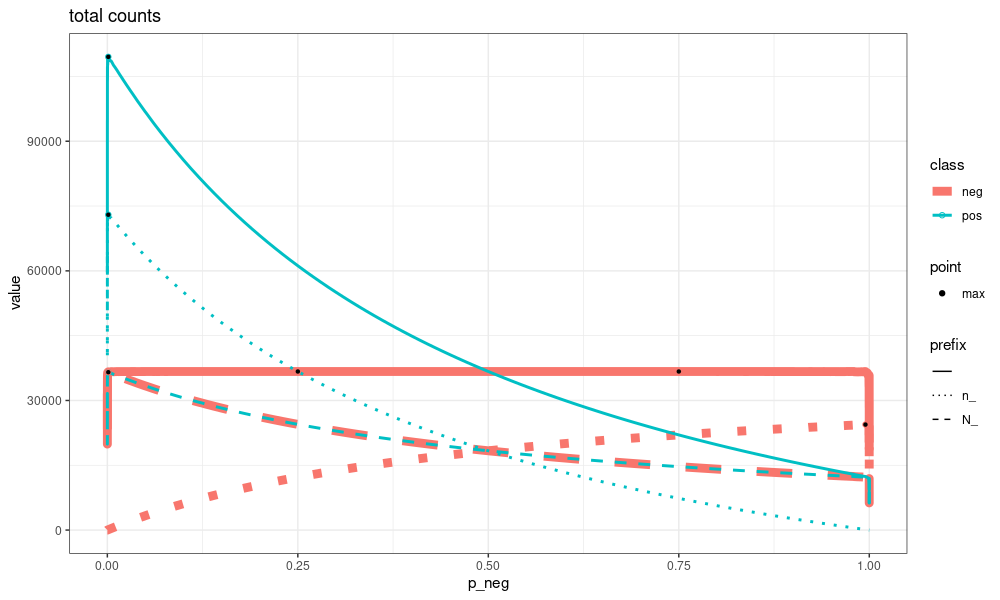
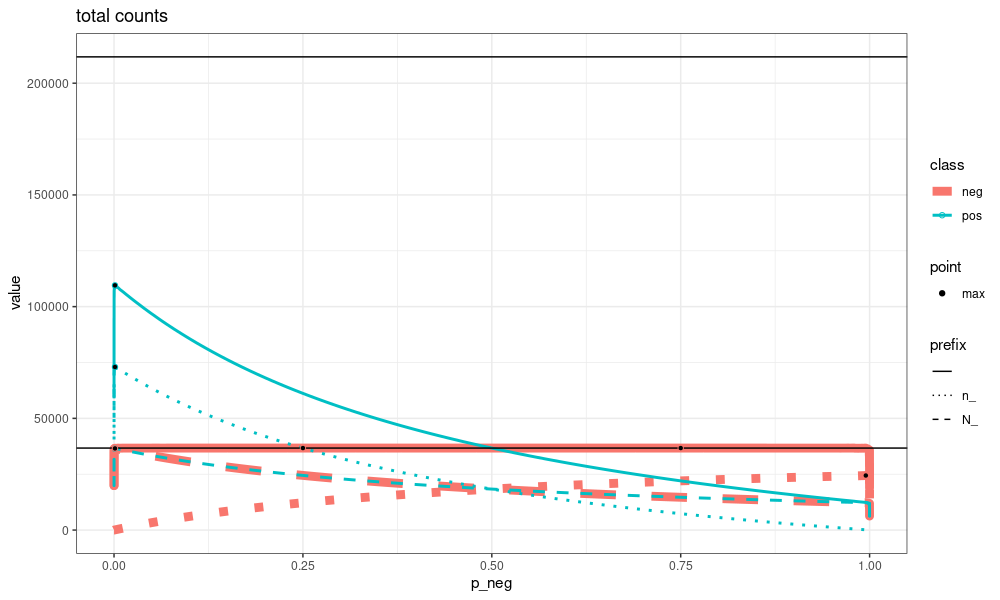
hline

diff --git a/_posts/2026-06-11-exact-downsampling.md b/_posts/2026-06-11-exact-downsampling.md
@@ -431,6 +431,9 @@ n_max <- grid_long[, .SD[value==max(value)], by=.(prefix, class)]
    geom_line(aes(
      p_neg, value, color=class, size=class, linetype=prefix),
      data=grid_long)+
+   geom_hline(aes(
+     yintercept=value),
+     data=data.frame(value=as.numeric(ltab)))+
    scale_fill_manual(values=c(max="black"))+
    geom_point(aes(
      p_neg, value, color=class, fill=point),
